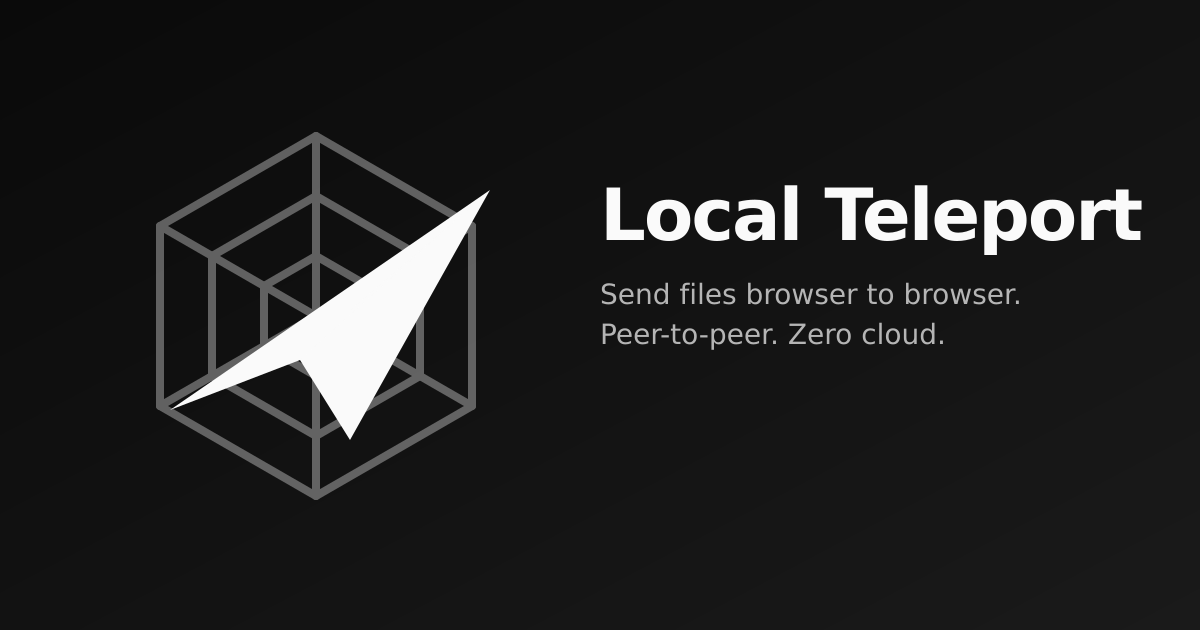
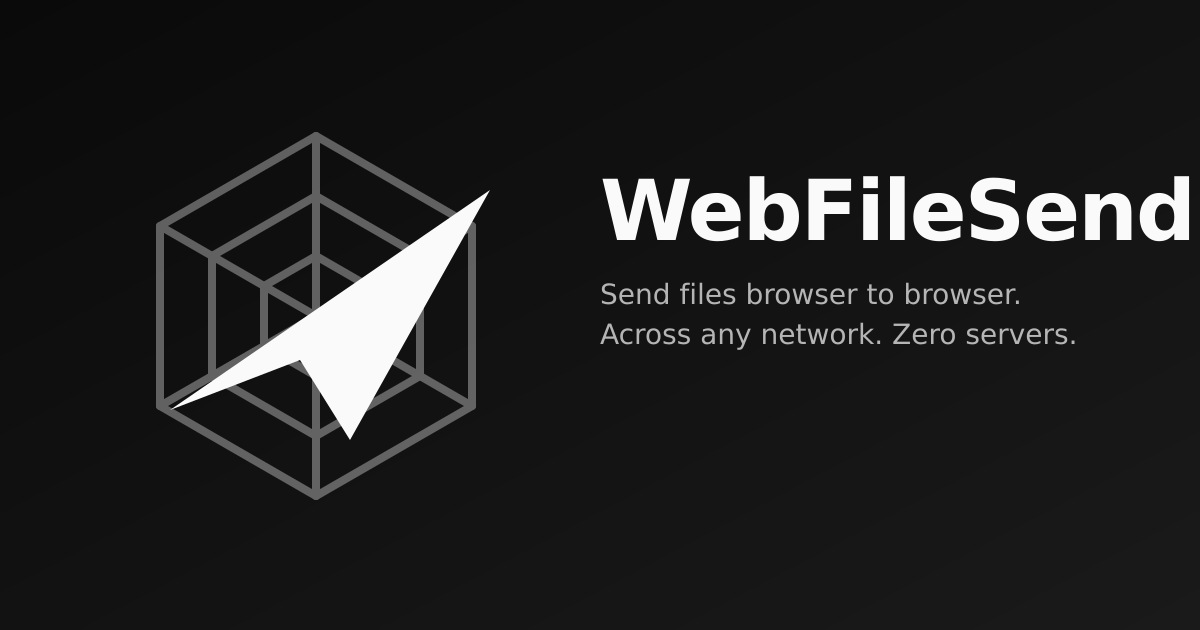
feat(brand): rename Local Teleport → WebFileSend + emphasize cross-network P2P everywhere
Two coordinated changes that should ship together:

1. Brand rename
   Local Teleport → WebFileSend across:
   - src/site.config.ts (name, shortName, domain, url)
   - public/manifest.webmanifest (PWA install name + short_name)
   - public/robots.txt (sitemap host)
   - src/layouts/Layout.astro (OG + Twitter image:alt)
   - src/pages/transfer.astro (5 fallback string literals replaced with site.shortName so future rebrands need only the config edit)
   - public/og-image.png (regenerated with WebFileSend wordmark)
   - public/favicon.svg (comment cleanup)

2. Cross-network emphasis
   Previous copy could be mistaken for AirDrop-style local-only sharing. New copy makes it crystal clear that the app works across any networks, anywhere in the world, via WebRTC + STUN/TURN — not just same-WiFi.

   Home page (src/pages/index.astro):
   - Hero: 'Send files across any network. Browser to browser. No server in the middle.'
   - Tagline updated, eyebrow now reads 'P2P File Transfer · WebRTC · Across Any Network · Zero Cloud'
   - Feature grid reordered to put 'Works across any network' FIRST, explicitly calling out STUN/TURN traversal and contrasting with AirDrop
   - 'No upload' added to badge row; '3 steps' section rewritten to mention different countries
   - CTAs: 'Launch the teleporter →' → 'Send a file now →' (less metaphor, more clarity)
   - Final CTA: 'Stop emailing files to yourself' → 'Stop uploading. Stop emailing. Just send.'
[…]

Changed region(s): [[0.4933, 0.2714, 1.0, 0.4222], [0.4933, 0.5127, 0.8942, 0.573]]

diff --git a/src/site.config.ts b/src/site.config.ts
@@ -9,16 +9,16 @@
 const env = import.meta.env;
 
 export const site = {
-  name: env.PUBLIC_SITE_NAME ?? "Local Teleport",
-  shortName: env.PUBLIC_SITE_SHORT_NAME ?? "Local Teleport",
-  domain: env.PUBLIC_SITE_DOMAIN ?? "p2pdatasharing.local",
-  url: env.PUBLIC_SITE_URL ?? "https://p2pdatasharing.local",
+  name: env.PUBLIC_SITE_NAME ?? "WebFileSend",
+  shortName: env.PUBLIC_SITE_SHORT_NAME ?? "WebFileSend",
+  domain: env.PUBLIC_SITE_DOMAIN ?? "webfilesend.com",
+  url: env.PUBLIC_SITE_URL ?? "https://webfilesend.com",
   tagline:
     env.PUBLIC_SITE_TAGLINE ??
-    "Zero-cloud P2P file teleporter — browser to browser, never through a server.",
+    "Send files browser to browser across any network — no upload, no server, no size limit.",
   description:
     env.PUBLIC_SITE_DESCRIPTION ??
-    "Send files of any size directly browser-to-browser with WebRTC. No uploads, no signup, no size limits. End-to-end encrypted by default.",
+    "Truly peer-to-peer file transfer that works across any network, anywhere in the world. Direct browser-to-browser via WebRTC — your files never touch a server. No signup, no install, no size limit. End-to-end encrypted by default.",
   author: env.PUBLIC_SITE_AUTHOR ?? "Shrestha Tripathi",
   locale: env.PUBLIC_SITE_LOCALE ?? "en-US",
   twitter: env.PUBLIC_SITE_TWITTER ?? "",
